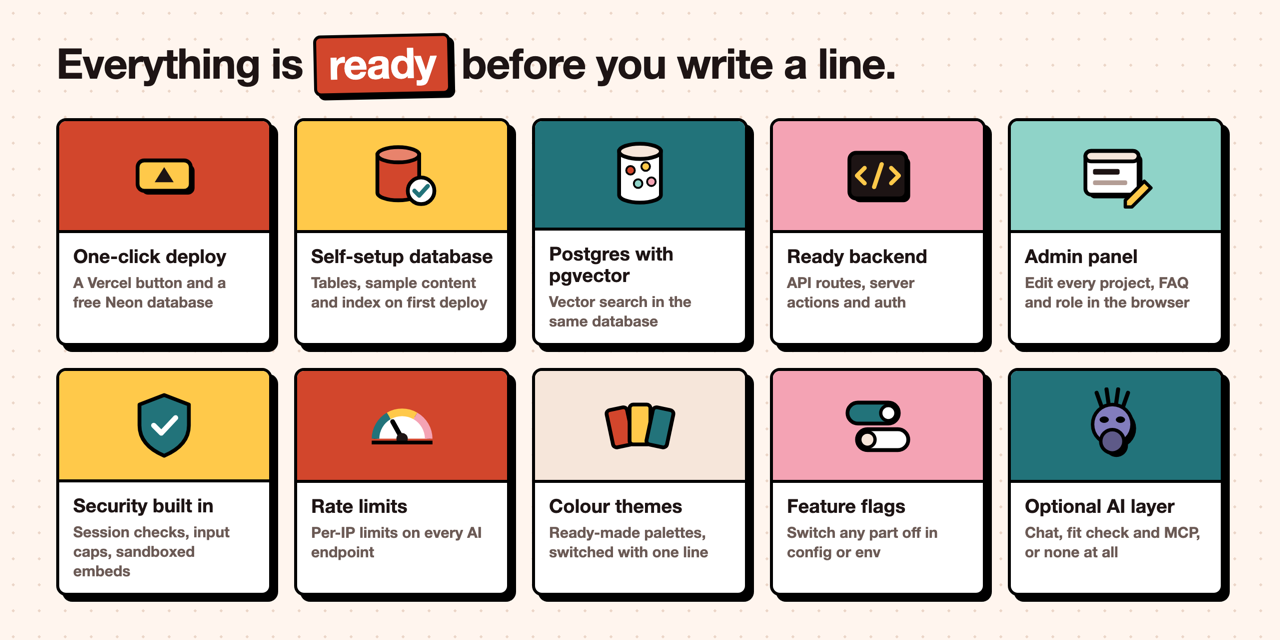
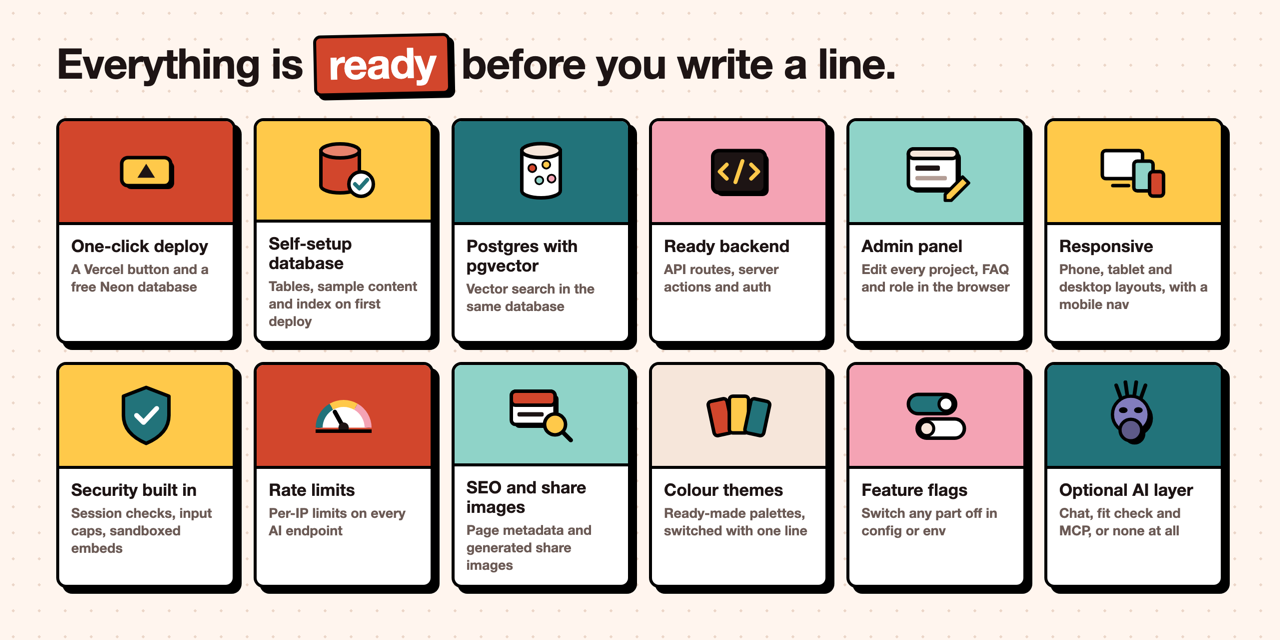
Responsive admin on phones, responsive visual and See it live button
The admin header nav and the project and experience rows now wrap and
stack on phones. The README gets a "Looks right on every screen"
visual, phone screenshots under the gallery, Responsive and SEO rows
and tiles, and a big See it live button above the Deploy button.

Claude-Session: https://claude.ai/code/session_01JpuL1SqSvFLS5bKoLn58LL

diff --git a/src/app/admin/(protected)/layout.tsx b/src/app/admin/(protected)/layout.tsx
@@ -13,12 +13,12 @@ export default function AdminLayout({ children }: { children: React.ReactNode })
   return (
     <div className="flex flex-1 flex-col bg-background text-foreground">
       <div className="mx-auto w-full max-w-5xl px-6">
-        <nav className="flex items-center justify-between border-b-2 border-border py-6">
+        <nav className="flex flex-col gap-4 border-b-2 border-border py-6 sm:flex-row sm:items-center sm:justify-between">
           <Link href="/admin/projects" className="flex items-center gap-2 text-xl font-black">
             <Logo initials={siteConfig.person.initials} className="size-8" />
             {siteConfig.admin.label}
           </Link>
-          <div className="flex items-center gap-4">
+          <div className="flex flex-wrap items-center gap-x-4 gap-y-2">
             <Link href="/admin/projects" className="text-sm font-bold hover:underline">
               Projects
             </Link>

diff --git a/src/app/admin/(protected)/experience/experience-list.tsx b/src/app/admin/(protected)/experience/experience-list.tsx
@@ -72,8 +72,8 @@ export function ExperienceList({ experiences }: { experiences: ExperienceRow[] }
   return (
     <div className="flex flex-col gap-3">
       {optimisticExperiences.map((exp, index) => (
-        <Card key={exp.id} className="flex-row items-center justify-between gap-4 py-4">
-          <CardContent className="flex items-center gap-3 px-5">
+        <Card key={exp.id} className="flex-col items-stretch gap-3 py-4 sm:flex-row sm:items-center sm:justify-between sm:gap-4">
+          <CardContent className="flex min-w-0 flex-wrap items-center gap-2 px-5 sm:gap-3">
             <span className="font-black">{exp.title}</span>
             <span className="text-sm text-muted-foreground">at {exp.company}</span>
             <span className="rounded-md border-2 border-border bg-card px-2 py-0.5 font-mono text-xs font-bold">

diff --git a/src/app/admin/(protected)/projects/project-list.tsx b/src/app/admin/(protected)/projects/project-list.tsx
@@ -130,9 +130,9 @@ function ProjectGroup({
       {projects.map((project, index) => (
         <Card
           key={project.id}
-          className="flex-row items-center justify-between gap-4 py-4"
+          className="flex-col items-stretch gap-3 py-4 sm:flex-row sm:items-center sm:justify-between sm:gap-4"
         >
-          <CardContent className="flex items-center gap-3 px-5">
+          <CardContent className="flex min-w-0 flex-wrap items-center gap-2 px-5 sm:gap-3">
             <span className="font-black">{project.title}</span>
             <span className="text-sm text-muted-foreground">/{project.slug}</span>
             {project.liveUrl && (

diff --git a/src/app/admin/(protected)/experience/page.tsx b/src/app/admin/(protected)/experience/page.tsx
@@ -13,7 +13,7 @@ export default async function AdminExperiencePage() {
 
   return (
     <div>
-      <div className="mb-6 flex items-center justify-between">
+      <div className="mb-6 flex flex-wrap items-center justify-between gap-3">
         <h1 className="text-3xl font-black">Experience</h1>
         <Button asChild>
           <Link href="/admin/experience/new">+ New role</Link>

diff --git a/src/app/admin/(protected)/projects/page.tsx b/src/app/admin/(protected)/projects/page.tsx
@@ -23,7 +23,7 @@ export default async function AdminProjectsPage() {
 
   return (
     <div>
-      <div className="mb-6 flex items-center justify-between">
+      <div className="mb-6 flex flex-wrap items-center justify-between gap-3">
         <h1 className="text-3xl font-black">Projects</h1>
         <Button asChild>
           <Link href="/admin/projects/new">+ New project</Link>

diff --git a/README.md b/README.md
@@ -4,9 +4,11 @@
 
 **A complete portfolio website for developers and designers, plus an optional AI layer that answers questions about your work from your own content.**
 
-[![Deploy with Vercel](https://vercel.com/button)](https://vercel.com/new/clone?repository-url=https%3A%2F%2Fgithub.com%2Fmutlumehmet%2Fai-portfolio-starter&project-name=my-portfolio&repository-name=my-portfolio&env=OPENAI_API_KEY%2CADMIN_PASSWORD%2CSESSION_SECRET&envDescription=An%20OpenAI%20API%20key%20for%20the%20chat%2C%20a%20password%20for%20%2Fadmin%2C%20and%20any%20long%20random%20string%20to%20sign%20the%20admin%20session.&envLink=https%3A%2F%2Fgithub.com%2Fmutlumehmet%2Fai-portfolio-starter%23environment-variables&stores=%5B%7B%22type%22%3A%22integration%22%2C%22protocol%22%3A%22storage%22%2C%22integrationSlug%22%3A%22neon%22%2C%22productSlug%22%3A%22neon%22%7D%5D) [![See it live: mehmetmutlu.dev](https://img.shields.io/badge/See_it_live-mehmetmutlu.dev-d2462c?style=for-the-badge)](https://www.mehmetmutlu.dev)
+<p align="center"><a href="https://www.mehmetmutlu.dev"><img src="docs/images/see-it-live.png" alt="See it live: mehmetmutlu.dev" width="420"></a></p>
 
 *See it live* opens the portfolio this template was extracted from: same structure, AI chat and job-fit check, with its own content and colours.
+
+[![Deploy with Vercel](https://vercel.com/button)](https://vercel.com/new/clone?repository-url=https%3A%2F%2Fgithub.com%2Fmutlumehmet%2Fai-portfolio-starter&project-name=my-portfolio&repository-name=my-portfolio&env=OPENAI_API_KEY%2CADMIN_PASSWORD%2CSESSION_SECRET&envDescription=An%20OpenAI%20API%20key%20for%20the%20chat%2C%20a%20password%20for%20%2Fadmin%2C%20and%20any%20long%20random%20string%20to%20sign%20the%20admin%20session.&envLink=https%3A%2F%2Fgithub.com%2Fmutlumehmet%2Fai-portfolio-starter%23environment-variables&stores=%5B%7B%22type%22%3A%22integration%22%2C%22protocol%22%3A%22storage%22%2C%22integrationSlug%22%3A%22neon%22%2C%22productSlug%22%3A%22neon%22%7D%5D)
 
 ## Take the tour
 
@@ -26,11 +28,17 @@ Edit content in `/admin`, or let any coding agent add and remove projects with a
 
 ![A portfolio you can manage with your agent: the admin panel next to a terminal where a coding agent runs npm run project:upsert and the search index re-syncs](docs/images/manage-with-agent.png)
 
+## Looks right on every screen
+
+Every page has a phone, tablet and desktop layout, with a menu on phones, and the admin panel works on a phone too.
+
+![Looks right on every screen: the home page in a desktop browser, a project page on a tablet and the home page on a phone](docs/images/responsive.png)
+
 ## Everything is ready
 
 The parts you would otherwise build yourself are already in place. Details in [Ready to deploy](#ready-to-deploy).
 
-![Everything is ready: one-click deploy, self-setup database, Postgres with pgvector, ready backend, admin panel, security, rate limits, colour themes, feature flags and an optional AI layer](docs/images/everything-ready.png)
+![Everything is ready: one-click deploy, self-setup database, Postgres with pgvector, ready backend, admin panel, responsive layouts, security, rate limits, SEO and share images, colour themes, feature flags and an optional AI layer](docs/images/everything-ready.png)
 
 ## Ready to deploy
 
@@ -44,8 +52,10 @@ Everything below is already done for you.
 | **Self-setup database** | The first deploy runs the migrations, loads the sample content and builds the search index. |
 | **Postgres with pgvector** | The first migration creates the `vector` extension, so there is nothing to enable by hand. |
 | **Admin panel** | Edit projects, tags, FAQs and experience in the browser at `/admin`. |
+| **Responsive** | Phone, tablet and desktop layouts for every page, a mobile menu, and an admin panel that works on a phone. |
 | **Security** | Every admin action checks the session, login attempts are limited, and AI inputs have length caps. |
 | **Rate limits** | Per-IP limits on every AI endpoint. |
+| **SEO and share images** | Page titles and descriptions, Open Graph tags, a generated share image for the site, and each project's cover as its share image. |
 | **Colour themes** | Ready-made [colour themes](#colour-themes), including pastels and neutrals, switched with one line. |
 | **Feature flags** | Switch any part off in `site.config.ts` or with an environment variable. |
 | **Optional AI layer** | Switch the chat, the fit check and the MCP server off and you have a plain portfolio. |
@@ -96,6 +106,14 @@ The portfolio is a full site on its own. These are its pages, shown with the sam
 </td>
 </tr>
 </table>
+
+Every page also has a phone layout, with a menu in place of the header links:
+
+<p>
+<img src="docs/images/screens/mobile/home.png" width="200" alt="Home page on a phone">
+<img src="docs/images/screens/mobile/work.png" width="200" alt="Selected work on a phone">
+<img src="docs/images/screens/mobile/project.png" width="200" alt="A project page on a phone">
+</p>
 
 ## How the portfolio works
 
